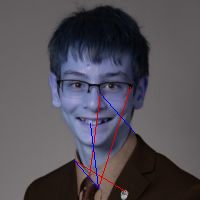
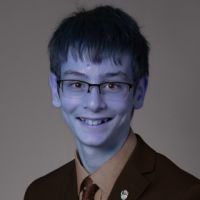
did work

diff --git a/golden.py b/golden.py
@@ -11,8 +11,16 @@ gray = cv2.cvtColor(img, cv2.COLOR_BGR2GRAY)
 corners = cv2.goodFeaturesToTrack(gray, 25, 0.01, 10)
 corners = np.int0(corners)
 
-found = []
+def slope_diff(one, two, three):
+  slope1 = (two[1] - one[1]) / (two[0] - one[0])
+  slope2 = (three[1] - two[1]) / (three[0] - two[0])
 
+  inc1 = math.radians(math.atan(slope1))
+  inc2 = math.radians(math.atan(slope2))
+
+  return 180 - abs(inc2 - inc1)
+
+found = []
 
 def check_found(new, found):
     for i in found:
@@ -29,8 +37,12 @@ for i in range(len(corners)):
         for k in range(len(corners)):
             if k == j or k == i:
                 continue
-            if round(math.dist(corners[i][0], corners[j][0]) / math.dist(corners[j][0], corners[k][0]), 3) == 1.618:
+            diff = slope_diff(corners[i][0], corners[j][0], corners[k][0])
+            print(diff)
+            ratio = round(math.dist(corners[i][0], corners[j][0]) / math.dist(corners[j][0], corners[k][0]), 2)
+            if ratio >= 1.60 and ratio <= 1.62 and diff >= 0 and diff <= .2:
                 if not check_found([i, j, k], found):
+                    print(diff)
                     img = cv2.line(img, tuple(corners[i][0]), tuple(
                         corners[j][0]), (0, 0, 225), 1)
                     img = cv2.line(img, tuple(corners[j][0]), tuple(
